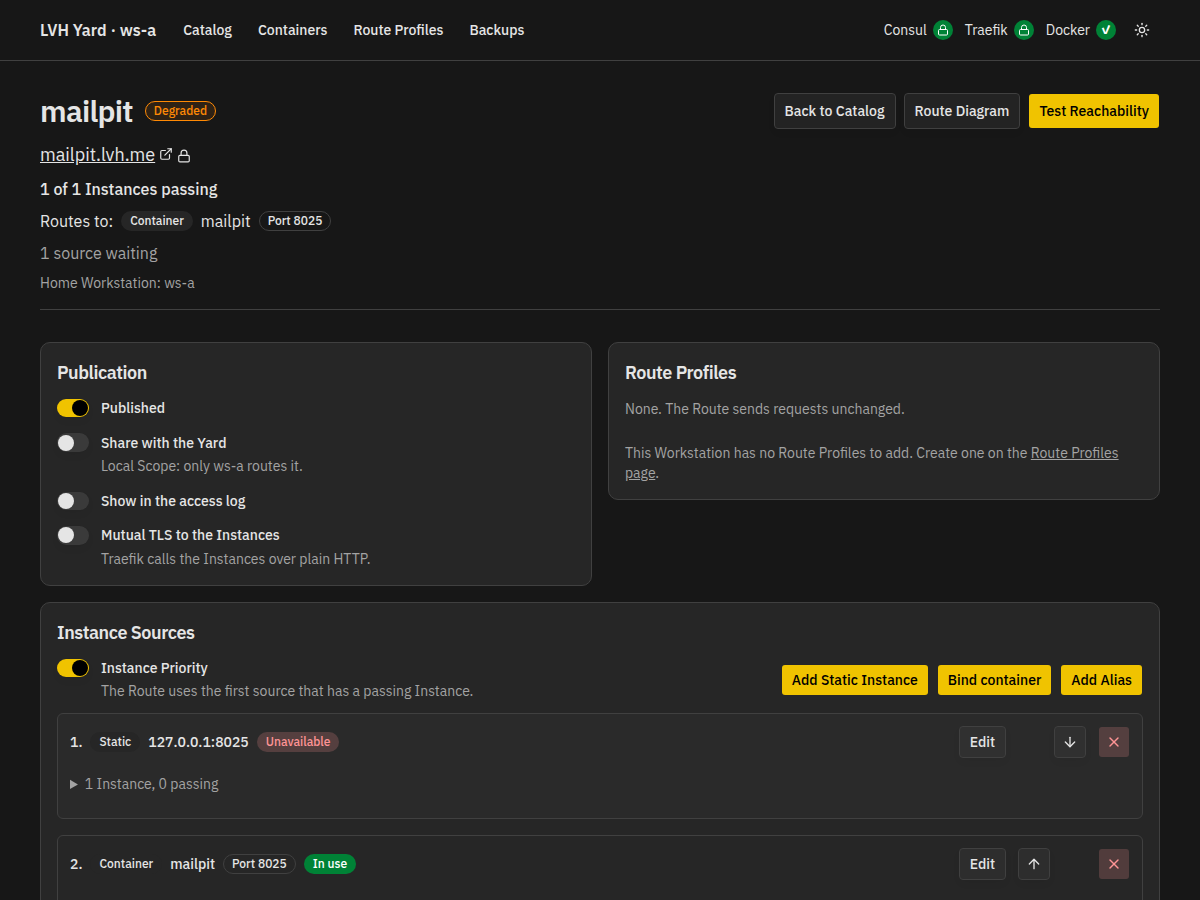
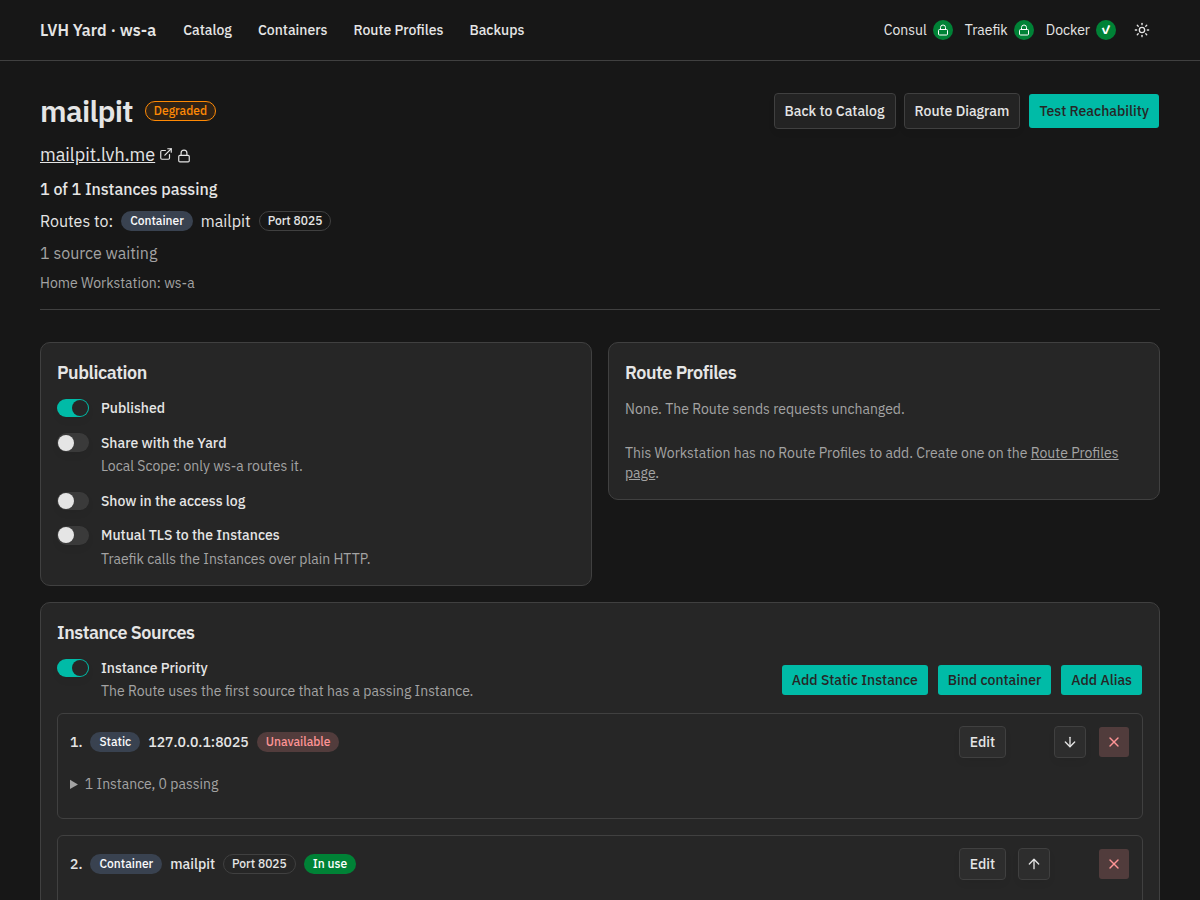
feat(dashboard): use the colors of the lvhy theme in the dashboard and the landing page
- Take the light and the dark colors from the lvhy theme of tweakcn. The primary is teal.
- Keep dark text on the primary and a darker destructive red, so that their text passes 4.5 to 1.
- Add --primary-mark for a line or a dot, because the primary is too light on the white page.
- Change the favicons and take the screenshots of the landing page again.

diff --git a/dashboard/src/main/css/theme.css b/dashboard/src/main/css/theme.css
@@ -1,6 +1,7 @@
-/* Colors, radius and shadows from https://tweakcn.com/themes/cmq3zh8z1000104i6bwg93nqa (Phyxor).
+/* Colors, radius and shadows from https://tweakcn.com/themes/cmwvupuop000004lb6tqjhsrp (lvhy).
    These rules come after Basecoat's, so .dark must set every color that :root sets. The dashboard
-   (app.css) and the landing page (docs/landing/site.css) both import this file after Basecoat. */
+   (app.css), the landing page (docs/landing/site.css) and the guide (docs/guide/stylesheets/theme.css)
+   use these colors. The guide has its own copy of the values. Change both when a color changes. */
 :root {
   --radius: 0.375rem;
   --background: oklch(1 0 0);
@@ -9,34 +10,41 @@
   --card-foreground: oklch(0.2686 0 0);
   --popover: oklch(1 0 0);
   --popover-foreground: oklch(0.2686 0 0);
-  --primary: oklch(0.8326 0.1703 91.9268);
-  --primary-foreground: oklch(0 0 0);
-  --secondary: oklch(0.967 0.0029 264.5419);
-  --secondary-foreground: oklch(0.4461 0.0263 256.8018);
+  --primary: oklch(0.511 0.096 186.391);
+  --primary-foreground: oklch(0.984 0.003 247.858);
+  --secondary: oklch(0.9846 0.0017 247.8389);
+  --secondary-foreground: oklch(0.3751 0.0595 189.9911);
   --muted: oklch(0.9846 0.0017 247.8389);
-  --muted-foreground: oklch(0.551 0.0234 264.3637);
-  --accent: oklch(0.987 0.022 95.277);
-  --accent-foreground: oklch(0.473 0.137 46.201);
-  /* Dark red text on the light red tint of a destructive button or badge, at least 4.5 to 1. */
+  --muted-foreground: oklch(0.5551 0.0147 266.6154);
+  --accent: oklch(0.9846 0.0017 247.8389);
+  --accent-foreground: oklch(0.3751 0.0595 189.9911);
+  /* Dark red text on the light red tint of a destructive button or badge, at least 4.5 to 1.
+     The theme's red (0.6322 0.131 21.4751) gives 3.3 to 1. */
   --destructive: oklch(0.505 0.213 27.518);
-  --border: oklch(0.9276 0.0058 264.5313);
-  --input: oklch(0.9276 0.0058 264.5313);
-  --ring: oklch(0.7686 0.1647 70.0804);
-  --chart-1: oklch(0.7686 0.1647 70.0804);
-  --chart-2: oklch(0.6658 0.1574 58.3183);
-  --chart-3: oklch(0.5553 0.1455 48.9975);
-  --chart-4: oklch(0.4732 0.1247 46.2007);
-  --chart-5: oklch(0.4137 0.1054 45.9038);
+  --border: oklch(0.9281 0.0042 271.3672);
+  --input: oklch(0.9281 0.0042 271.3672);
+  --ring: oklch(0.6942 0.1205 77.2913);
+  --chart-1: oklch(0.6942 0.1205 77.2913);
+  --chart-2: oklch(0.6083 0.1111 66.4828);
+  --chart-3: oklch(0.5174 0.0971 56.139);
+  --chart-4: oklch(0.447 0.0814 50.4047);
+  --chart-5: oklch(0.3951 0.0668 49.8184);
   --sidebar: oklch(1 0 0);
   --sidebar-foreground: oklch(0.2686 0 0);
-  --sidebar-primary: oklch(0.8326 0.1703 91.9268);
-  --sidebar-primary-foreground: oklch(0 0 0);
-  --sidebar-accent: oklch(0.987 0.022 95.277);
-  --sidebar-accent-foreground: oklch(0 0 0);
-  --sidebar-border: oklch(0.9276 0.0058 264.5313);
-  --sidebar-ring: oklch(0.7686 0.1647 70.0804);
-  /* Orange, apart from the amber of the buttons, so that a risk does not look like a button. */
+  --sidebar-primary: oklch(0.704 0.14 182.503);
+  --sidebar-primary-foreground: oklch(0.2686 0 0);
+  --sidebar-accent: oklch(0.9846 0.0017 247.8389);
+  --sidebar-accent-foreground: oklch(0.3751 0.0595 189.9911);
+  --sidebar-border: oklch(0.9281 0.0042 271.3672);
+  --sidebar-ring: oklch(0.6942 0.1205 77.2913);
+  /* Orange, apart from the amber of the focus ring, so that a risk does not look like a button. */
   --risk: oklch(0.52 0.195 38.402);
+  /* The primary color for a line, a dot or a border. The primary is too light for that on the white page (2.4 to 1),
+     so it is the dark teal of the theme there. */
+  --primary-mark: var(--secondary-foreground);
+  /* A pill that stands out from the primary one: amber with dark text. */
+  --highlight: oklch(0.6942 0.1205 77.2913);
+  --highlight-foreground: oklch(0.2686 0 0);
 }
 
 .dark {
@@ -46,40 +54,45 @@
   --card-foreground: oklch(0.9219 0 0);
   --popover: oklch(0.2686 0 0);
   --popover-foreground: oklch(0.9219 0 0);
-  --primary: oklch(0.8326 0.1703 91.9268);
-  --primary-foreground: oklch(0 0 0);
-  --secondary: oklch(0.2686 0 0);
-  --secondary-foreground: oklch(0.9219 0 0);
+  --primary: oklch(0.704 0.14 182.503);
+  --primary-foreground: oklch(0.2686 0 0);
+  --secondary: oklch(0.3766 0.0269 259.1562);
+  --secondary-foreground: oklch(0.9846 0.0017 247.8389);
   --muted: oklch(0.285 0 0);
   --muted-foreground: oklch(0.7155 0 0);
-  --accent: oklch(0.511 0.096 186.391);
-  --accent-foreground: oklch(0.9219 0 0);
+  --accent: oklch(0.3766 0.0269 259.1562);
+  --accent-foreground: oklch(0.9846 0.0017 247.8389);
   /* Light red text on the dark red tint of a destructive button or badge, at least 4.5 to 1. */
   --destructive: oklch(0.78 0.13 20);
   --border: oklch(0.3715 0 0);
   --input: oklch(0.3715 0 0);
-  --ring: oklch(0.7686 0.1647 70.0804);
-  --chart-1: oklch(0.8369 0.1644 84.4286);
-  --chart-2: oklch(0.6658 0.1574 58.3183);
-  --chart-3: oklch(0.4732 0.1247 46.2007);
-  --chart-4: oklch(0.5553 0.1455 48.9975);
-  --chart-5: oklch(0.4732 0.1247 46.2007);
+  --ring: oklch(0.6942 0.1205 77.2913);
+  --chart-1: oklch(0.7586 0.1189 88.0673);
+  --chart-2: oklch(0.6083 0.1111 66.4828);
+  --chart-3: oklch(0.447 0.0814 50.4047);
+  --chart-4: oklch(0.5174 0.0971 56.139);
+  --chart-5: oklch(0.447 0.0814 50.4047);
   --sidebar: oklch(0.2046 0 0);
   --sidebar-foreground: oklch(0.9219 0 0);
-  --sidebar-primary: oklch(0.8326 0.1703 91.9268);
-  --sidebar-primary-foreground: oklch(0 0 0);
-  --sidebar-accent: oklch(0.511 0.096 186.391);
-  --sidebar-accent-foreground: oklch(0.9219 0 0);
+  --sidebar-primary: oklch(0.704 0.14 182.503);
+  --sidebar-primary-foreground: oklch(0.2686 0 0);
+  --sidebar-accent: oklch(0.3766 0.0269 259.1562);
+  --sidebar-accent-foreground: oklch(0.9846 0.0017 247.8389);
   --sidebar-border: oklch(0.3715 0 0);
-  --sidebar-ring: oklch(0.7686 0.1647 70.0804);
+  --sidebar-ring: oklch(0.6942 0.1205 77.2913);
   --risk: oklch(0.75 0.183 55.934);
+  --primary-mark: var(--primary);
+  --highlight: oklch(0.7586 0.1189 88.0673);
+  --highlight-foreground: oklch(0.2046 0 0);
 }
 
-/* Only the system fonts, so the pages load no font, also on a LAN with no internet. Phyxor's serif font is dropped. */
+/* Only the system fonts, so the pages load no font, also on a LAN with no internet. The theme's Inter, JetBrains Mono
+   and Source Serif 4 are dropped. */
 @theme {
   --font-sans: ui-sans-serif, system-ui, sans-serif;
   --font-mono: ui-monospace, monospace;
   --color-risk: var(--risk);
+  --color-primary-mark: var(--primary-mark);
   --shadow-2xs: 0px 4px 8px -1px hsl(0 0% 0% / 0.05);
   --shadow-xs: 0px 4px 8px -1px hsl(0 0% 0% / 0.05);
   --shadow-sm:

diff --git a/dashboard/src/main/css/app.css b/dashboard/src/main/css/app.css
@@ -318,7 +318,7 @@
     gap: 0.5rem;
     padding-block: 0.25rem;
     padding-left: 1rem;
-    border-left: 4px solid var(--primary);
+    border-left: 4px solid var(--primary-mark);
   }
 
   .instance-body {
@@ -812,7 +812,7 @@
     min-width: 0;
   }
 
-  /* A dot before the state, in the amber of the buttons while running. */
+  /* A dot before the state, in the primary color while running. */
   .container-state-heading {
     display: flex;
     flex-wrap: wrap;
@@ -836,7 +836,7 @@
   }
 
   .container-state[data-state="running"] .container-state-heading h2::before {
-    background-color: var(--primary);
+    background-color: var(--primary-mark);
   }
 
   /* One frame per Compose project. Every line inside it is a row of the same grid. */
@@ -1050,7 +1050,7 @@
 
   .route-diagram-svg .rd-band {
     fill: var(--card);
-    stroke: var(--primary);
+    stroke: var(--primary-mark);
     stroke-width: 1.5;
   }
 

diff --git a/docs/landing/site.css b/docs/landing/site.css
@@ -66,8 +66,8 @@
   }
 
   .hero-word-places {
-    background: var(--accent);
-    color: var(--accent-foreground);
+    background: var(--secondary);
+    color: var(--secondary-foreground);
   }
 
   .hero-word-track {

diff --git a/dashboard/src/main/java/cc/lvhy/yard/dashboard/web/CreateContainerServicePage.java b/dashboard/src/main/java/cc/lvhy/yard/dashboard/web/CreateContainerServicePage.java
@@ -108,7 +108,7 @@ final class CreateContainerServicePage {
     String field = "containerPort";
     section
         .div()
-        .attrClass("flex flex-col gap-3 border-l-4 border-primary pl-4")
+        .attrClass("flex flex-col gap-3 border-l-4 border-primary-mark pl-4")
         .input()
         .attrType(EnumTypeInputType.HIDDEN)
         .attrName("target")

diff --git a/dashboard/src/test/java/cc/lvhy/yard/dashboard/StylesheetComponentTest.java b/dashboard/src/test/java/cc/lvhy/yard/dashboard/StylesheetComponentTest.java
@@ -4,7 +4,7 @@ import static org.assertj.core.api.Assertions.assertThat;
 
 import org.junit.jupiter.api.Test;
 
-/** The stylesheet that every page loads: the Phyxor theme with the system fonts. */
+/** The stylesheet that every page loads: the lvhy theme with the system fonts. */
 class StylesheetComponentTest extends DashboardComponentTest {
 
   @Test

diff --git a/.scratch/guide-site/issues/02-landing-page.md b/.scratch/guide-site/issues/02-landing-page.md
@@ -72,3 +72,10 @@ See `../spec.md` for the decisions, the writing rules and the recipe template.
 
 - "How it works" has a fourth card, "4. Explore": "On its first start, LVH Yard publishes three Services for you. They use your Base Domain, here lvh.me." It lists three links: `http://yard.lvh.me` (the dashboard), `http://consul-ui.lvh.me` (the web page of Consul) and `http://traefik-admin.lvh.me` (the admin page of Traefik). The facts come from the user guide (the section about the first start of the dashboard) and from the Catalog of the throwaway Yard of round five, which listed the three hostnames. The links work only on a computer with a Workstation whose Base Domain is `lvh.me` and whose Traefik listens on port 80. The grid has four columns from 1024 px, two columns below, and one at 390 px.
 - The user guide says that the dashboard skips `traefik-admin` when Traefik is off at the first start. The card does not say so.
+
+## Seventh review round: the colors of the lvhy theme
+
+- The six screenshots were taken again with the colors of the `lvhy` theme (teal primary): `dashboard-route-{light,dark}.png` (1200 x 860), `dashboard-catalog-{light,dark}.png` (1200 x 700) and `dashboard-service-{light,dark}.png` (1200 x 900). The dashboard was the image of the working tree, built as `lvhy-shot-dashboard:1` and set with `YARD_DASHBOARD_IMAGE` in the `.env` of each throwaway Workstation, because `ghcr.io/ppalazon/lvh-yard-dashboard:latest` has the old colors. The image and the Workstations are removed.
+- The Route Diagram is `mailpit` on one throwaway Workstation (`ws-a`, other ports than the defaults for Consul, the dashboard and Traefik admin). The maintainer allowed the exception of the ports: Traefik listened on `127.0.0.1:80` and `127.0.0.1:443`, as the picture shows. Both ports were free, because the real Workstation of the maintainer was stopped. `ws tls https create` left `YARD_HTTPS_PORT` empty with the default HTTP port, so `lvh-yard ws set https-port 443` turned HTTPS on. HTTPS and the Client Certificate check were on, the Route Profile `certificate` had `clientCertificate: {}`, and `axllent/mailpit` was bound with `register container mailpit --port 8025`. The Workstation was removed right after, and ports 80 and 443 are free again.
+- The Catalog and the Service page come from a Yard of two Workstations (`ws-a` and `ws-b`), as in round five: `ws-a` has `consul-ui`, `mailpit` (degraded), `traefik-admin` and `yard`, and `ws-b` has `grafana` with Yard Scope at `grafana.ws-b.lvh.me`. The Yard used `127.0.0.1` for Consul, so the container of `ws-b` is on loopback and out of range. `lvh-yard ws set out-of-range ""` on `ws-a` made it visible. The Service page is `mailpit` with a Static Instance `127.0.0.1:8025` (nothing listens) and a Container Binding to the container `mailpit`. I closed the details of the first source, as in round five.
+- The status badges and the Healthy badges are green in the pictures, as the dashboard sources are now (`bg-green-700 text-white`).

diff --git a/docs/development.md b/docs/development.md
@@ -497,6 +497,11 @@ The site at `https://lvhy.cc/` has two parts. The landing page is one static
 page in `docs/landing/`: `index.html`, `site.css` and `assets/`. `site.css`
 uses Tailwind CSS and Basecoat with the colors of
 `dashboard/src/main/css/theme.css`, so the page and the dashboard look alike.
+Those colors are the `lvhy` theme of [tweakcn](https://tweakcn.com/themes/cmwvupuop000004lb6tqjhsrp). The file
+keeps some values of its own, so that text and lines stay readable: `--destructive` and `--risk`, darker so that
+their text passes 4.5 to 1, `--primary-foreground`, dark text on the light teal primary, `--primary-mark`, the color
+of a line or a dot (the dark teal on the white page, the primary on the dark page), and `--highlight`, the amber of
+the second word of the landing page. The guide uses the dark teal for its links and its commands on the white page.
 The page also loads the dashboard's `theme.js` for its dark theme.
 The guide at `https://lvhy.cc/docs/` is written in Markdown in `docs/guide/`.
 [Zensical](https://zensical.org/) builds it. `zensical.toml` at the root holds
